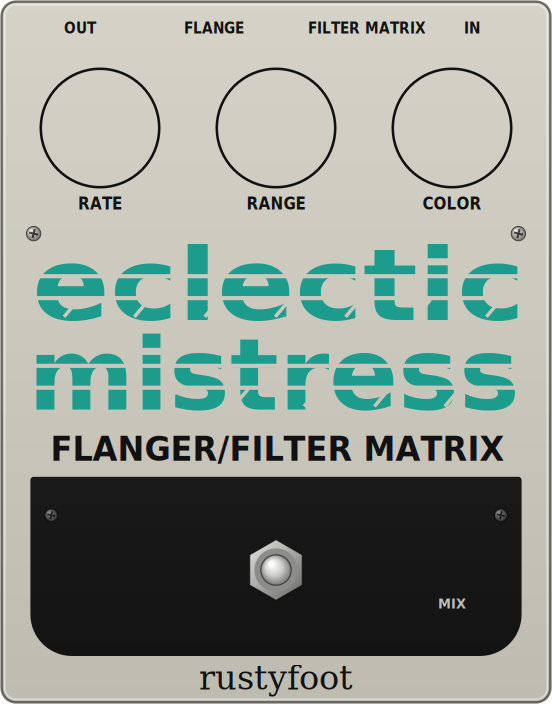
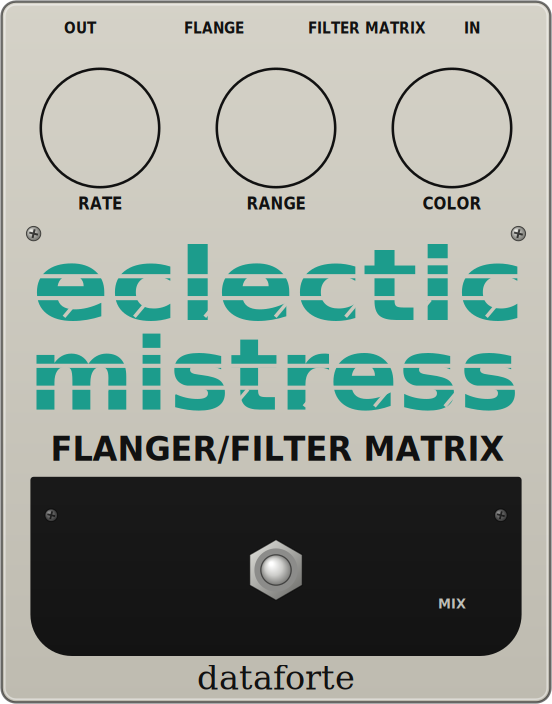
Brand as Dataforte instead of Rustyfoot
Maker/brand in all formats (LV2 author, VST3 vendor, CLAP vendor), the
modgui brand and the maker line on the pedal artwork. Identifiers move
with it while the plugin is unreleased: CLAP id pi.stom.dataforte.*,
VST3 brand id Dfte (changes the VST3 class ids), VST2 unique id. The
LV2 URI already used dataforte and is unchanged.

Changed region(s): [[0.3388, 0.9375, 0.6467, 1.0]]

diff --git a/plugins/EclecticMistress/PluginEclecticMistress.cpp b/plugins/EclecticMistress/PluginEclecticMistress.cpp
@@ -74,11 +74,11 @@ protected:
                "a BBD comb filter swept 1.2-10.7 ms by a triangle LFO, with COLOR feedback "
                "and the Filter Matrix mode. Controls are pot positions as on the pedal.";
     }
-    const char* getMaker() const override { return "Rustyfoot"; }
+    const char* getMaker() const override { return "Dataforte"; }
     const char* getHomePage() const override { return "https://github.com/tristantarrant/eclectic-mistress"; }
     const char* getLicense() const override { return "GPL-2.0-or-later"; }
     uint32_t getVersion() const override { return d_version(1, 1, 0); }
-    int64_t getUniqueId() const override { return d_cconst('R', 'e', 'M', 's'); }
+    int64_t getUniqueId() const override { return d_cconst('D', 'e', 'M', 's'); }
 
     void initAudioPort(const bool input, const uint32_t index, AudioPort& port) override
     {

diff --git a/plugins/EclecticMistress/DistrhoPluginInfo.h b/plugins/EclecticMistress/DistrhoPluginInfo.h
@@ -7,12 +7,12 @@
 #ifndef DISTRHO_PLUGIN_INFO_H_INCLUDED
 #define DISTRHO_PLUGIN_INFO_H_INCLUDED
 
-#define DISTRHO_PLUGIN_BRAND   "Rustyfoot"
+#define DISTRHO_PLUGIN_BRAND   "Dataforte"
 #define DISTRHO_PLUGIN_NAME    "Eclectic Mistress"
 #define DISTRHO_PLUGIN_URI     "http://dataforte.stom-pi/plugins/eclecticmistress"
-#define DISTRHO_PLUGIN_CLAP_ID "pi.stom.rustyfoot.eclecticmistress"
+#define DISTRHO_PLUGIN_CLAP_ID "pi.stom.dataforte.eclecticmistress"
 
-#define DISTRHO_PLUGIN_BRAND_ID  Rsty
+#define DISTRHO_PLUGIN_BRAND_ID  Dfte
 #define DISTRHO_PLUGIN_UNIQUE_ID eMis
 
 #define DISTRHO_PLUGIN_HAS_UI          1

diff --git a/tools/render_modgui.cpp b/tools/render_modgui.cpp
@@ -137,7 +137,7 @@ static bool write_modgui_text(const std::string& dir)
         "        modgui:stylesheet <modgui/stylesheet.css> ;\n"
         "        modgui:screenshot <modgui/screenshot.png> ;\n"
         "        modgui:thumbnail <modgui/thumbnail.png> ;\n"
-        "        modgui:brand \"Rustyfoot\" ;\n"
+        "        modgui:brand \"Dataforte\" ;\n"
         "        modgui:label \"Eclectic Mistress\" ;\n"
         "    ] .\n";
 

diff --git a/plugins/EclecticMistress/Artwork.hpp b/plugins/EclecticMistress/Artwork.hpp
@@ -486,7 +486,7 @@ inline void draw(cairo_t* cr, const State& s, unsigned layers = kLayerAll)
         text(cr, "MIX", MIX_X, MIX_Y + MIX_R + 15, 9.0, { 0.75, 0.75, 0.72 });
 
         // maker line
-        text(cr, "rustyfoot", W / 2, 431, 21, kInk, kCenter, false, "DejaVu Serif");
+        text(cr, "dataforte", W / 2, 431, 21, kInk, kCenter, false, "DejaVu Serif");
     }
 
     if (layers & kLayerKnobs)
